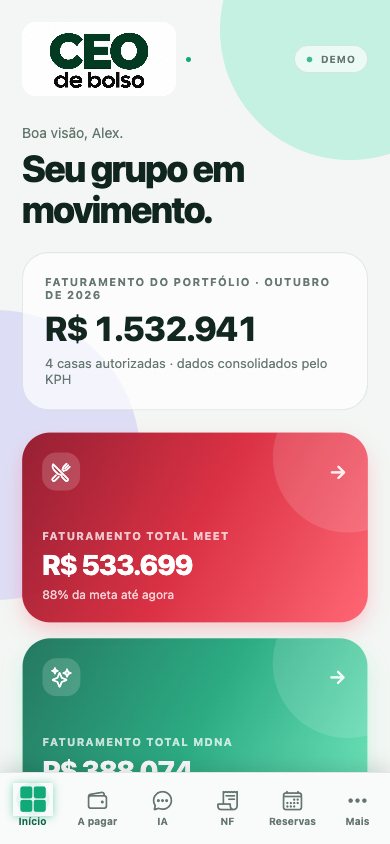
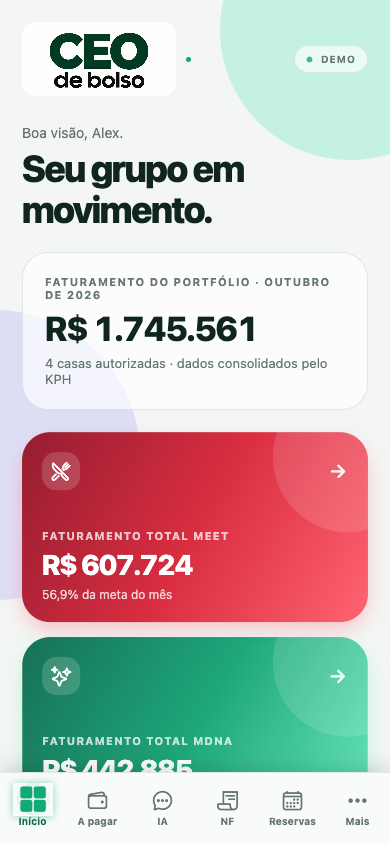
fix: show monthly target attainment on house dashboards

diff --git a/src/features/dashboard-experience.tsx b/src/features/dashboard-experience.tsx
@@ -218,7 +218,7 @@ function PortfolioCard({ unit, data, onPress, delay }: { unit: Unit; data?: Dash
             </Text>
             <AnimatedAmount value={data?.revenue ?? null} color="#FFFFFF" size={28} />
             <Text style={{ color: "rgba(255,255,255,0.78)", fontSize: 12 }}>
-              {data?.goalProgress == null ? "Meta indisponível" : `${Math.round(data.goalProgress * 100)}% da meta até agora`}
+              {data?.monthGoalProgress == null ? "Meta mensal indisponível" : `${percentage.format(data.monthGoalProgress)} da meta do mês`}
             </Text>
           </View>
         </LinearGradient>
@@ -254,7 +254,7 @@ function PortfolioSnapshotCard({ unit, data, onPress, delay }: { unit: Unit; dat
           <View style={{ flexDirection: "row", alignItems: "center", justifyContent: "space-between", marginBottom: 14 }}>
             <View>
               <Text style={{ color: "#FFFFFF", fontSize: 17, fontWeight: "900", letterSpacing: -0.5 }}>{brand.label}</Text>
-              <Text style={{ color: "rgba(255,255,255,0.68)", fontSize: 9, fontWeight: "700", letterSpacing: 1.1, marginTop: 2 }}>POSIÇÃO DO MÊS</Text>
+              <Text style={{ color: "rgba(255,255,255,0.68)", fontSize: 9, fontWeight: "700", letterSpacing: 1.1, marginTop: 2 }}>{`POSIÇÃO ATÉ ${asOf}`}</Text>
             </View>
             <View style={{ width: 34, height: 34, borderRadius: 12, backgroundColor: "rgba(255,255,255,0.16)", alignItems: "center", justifyContent: "center" }}>
               <Ionicons name={brand.icon} size={17} color="#FFFFFF" />
@@ -266,7 +266,7 @@ function PortfolioSnapshotCard({ unit, data, onPress, delay }: { unit: Unit; dat
             <View style={{ height: 1, backgroundColor: "rgba(255,255,255,0.17)", marginVertical: 1 }} />
             <SnapshotLine label="Faturamento acumulado" value={value(snapshot?.accumulatedRevenue)} strong />
             <SnapshotLine label="Diferença acumulada" value={value(snapshot?.difference)} valueColor={snapshot?.difference == null ? undefined : accent} />
-            <SnapshotLine label="Desvio da meta" value={snapshot?.deviation == null ? "—" : percentage.format(snapshot.deviation)} valueColor={snapshot?.deviation == null ? undefined : accent} />
+            <SnapshotLine label={`Desvio até ${asOf}`} value={snapshot?.deviation == null ? "—" : percentage.format(snapshot.deviation)} valueColor={snapshot?.deviation == null ? undefined : accent} />
           </View>
         </LinearGradient>
       </Pressable>
@@ -498,7 +498,7 @@ function UnitDetail({ unit, dashboard, month, onMonth, onBack, onPick }: { unit:
   const { colors } = useTheme();
   const brand = brandStyle(unit);
   const showDetails = unit.capabilities.includes("dashboard.details");
-  const goalProgress = dashboard.goalProgress ?? 0;
+  const monthGoalProgress = dashboard.monthGoalProgress;
   const bestDay = dashboard.series.reduce<DashboardPoint | null>((best, point) => !best || (point.revenue ?? 0) > (best.revenue ?? 0) ? point : best, null);
   return (
     <>
@@ -514,7 +514,7 @@ function UnitDetail({ unit, dashboard, month, onMonth, onBack, onPick }: { unit:
           <View style={{ position: "absolute", width: 230, height: 230, borderRadius: 115, right: -65, top: -100, backgroundColor: "rgba(255,255,255,0.14)" }} />
           <View style={{ flexDirection: "row", justifyContent: "space-between" }}><View><Text style={{ color: "rgba(255,255,255,0.72)", fontSize: 11, fontWeight: "700", letterSpacing: 1.3, textTransform: "uppercase" }}>FATURAMENTO · {monthLabel(month, true)}</Text><Text style={{ color: "rgba(255,255,255,0.72)", marginTop: 5, fontSize: 13 }}>{unit.name}</Text></View><View style={{ width: 43, height: 43, borderRadius: 15, backgroundColor: "rgba(255,255,255,0.17)", alignItems: "center", justifyContent: "center" }}><Ionicons name={brand.icon} color="#fff" size={22} /></View></View>
           <AnimatedAmount value={dashboard.revenue} color="#FFFFFF" size={42} />
-          <View style={{ gap: 10 }}><View style={{ flexDirection: "row", justifyContent: "space-between" }}><Text style={{ color: "rgba(255,255,255,0.75)", fontSize: 12 }}>Meta acumulada</Text><Text style={{ color: "#FFFFFF", fontSize: 12, fontWeight: "700" }}>{Math.round(goalProgress * 100)}%</Text></View><AnimatedProgress value={goalProgress} color="#FFFFFF" /></View>
+          <View style={{ gap: 10 }}><View style={{ flexDirection: "row", justifyContent: "space-between" }}><Text style={{ color: "rgba(255,255,255,0.75)", fontSize: 12 }}>Meta do mês</Text><Text style={{ color: "#FFFFFF", fontSize: 12, fontWeight: "700" }}>{monthGoalProgress == null ? "—" : percentage.format(monthGoalProgress)}</Text></View><AnimatedProgress value={monthGoalProgress ?? 0} color="#FFFFFF" /></View>
           {dashboard.provisional && <View style={{ flexDirection: "row", alignItems: "center", gap: 7 }}><Ionicons name="time-outline" color="rgba(255,255,255,0.82)" size={15} /><Text style={{ color: "rgba(255,255,255,0.82)", fontSize: 11 }}>Há conciliações de pagamento em processamento</Text></View>}
         </LinearGradient>
       </Reveal>
@@ -524,7 +524,7 @@ function UnitDetail({ unit, dashboard, month, onMonth, onBack, onPick }: { unit:
         </View>
       </Reveal>
       <View style={{ flexDirection: "row", gap: 12 }}>
-        <View style={{ flex: 1 }}><Reveal delay={240}><Metric icon="flag-outline" label="Meta acumulada" value={dashboard.goal == null ? "—" : compactCurrency.format(dashboard.goal)} color={brand.glow} /></Reveal></View>
+        <View style={{ flex: 1 }}><Reveal delay={240}><Metric icon="flag-outline" label="Meta do mês" value={dashboard.portfolioSnapshot?.monthGoal == null ? "—" : compactCurrency.format(dashboard.portfolioSnapshot.monthGoal)} color={brand.glow} /></Reveal></View>
         <View style={{ flex: 1 }}><Reveal delay={310}><Metric icon="trophy-outline" label="Melhor dia" value={bestDay?.revenue == null ? "—" : compactCurrency.format(bestDay.revenue)} color={brand.glow} /></Reveal></View>
       </View>
       <RevenueOverview dashboard={dashboard} color={brand.glow} showDetails={showDetails} />

diff --git a/tests/e2e/journeys.spec.ts b/tests/e2e/journeys.spec.ts
@@ -284,3 +284,16 @@ test("partner deep link falls back to home without payables access", async ({ pa
   await expect(page.getByText("Contas a pagar", { exact: true })).toHaveCount(0);
   await expect(page.getByText("Energia Centro")).toHaveCount(0);
 });
+
+
+test("house progress uses the full monthly target and keeps the dated position separate", async ({ page }) => {
+  await login(page);
+  const meet=page.getByRole("button", { name: "Abrir dashboard Meet", exact: true });
+  await expect(meet.getByText("56,9% da meta do mês", { exact: true })).toBeVisible();
+  await expect(page.getByText(/^META ATÉ 20\/10$/i).first()).toBeVisible();
+  await meet.click();
+  await expect(page.getByText("56,9%", { exact: true })).toBeVisible();
+  await expect(page.getByText("Meta do mês", { exact: true }).first()).toBeVisible();
+  await expect(page.getByText("R$ 1,5 mi", { exact: true })).toBeVisible();
+  await expect(page.getByText("Meta acumulada", { exact: true })).toHaveCount(0);
+});

diff --git a/src/data/mock-gateways.ts b/src/data/mock-gateways.ts
@@ -118,6 +118,7 @@ export function createMockGateways(now = Date.now, delay = 240): Gateways {
               revenue: null,
               goal: null,
               goalProgress: null,
+              monthGoalProgress: null,
               hasData: false,
               provisional: false,
               eventsRevenue: 0,
@@ -135,6 +136,7 @@ export function createMockGateways(now = Date.now, delay = 240): Gateways {
             }
           : {
               ...base,
+              monthGoalProgress: Math.round(base.revenue * scale) / Math.round((base.goal / 20) * 31 * scale),
               periodStart: `${requested}-01`,
               periodEnd: moveDate(base.periodEnd),
               revenue:

diff --git a/src/data/remote-gateways.ts b/src/data/remote-gateways.ts
@@ -159,6 +159,7 @@ const dashboardSchema = z.object({
   revenue: z.number().nullable(),
   goal: z.number().nullable(),
   goalProgress: z.number().nullable(),
+  monthGoalProgress: z.number().nullable(),
   hasData: z.boolean(),
   provisional: z.boolean(),
   eventsRevenue: z.number().nonnegative(),
@@ -624,7 +625,7 @@ export function createRemoteGateways(): Gateways {
       async get(scope, month) {
         const data = dashboardSchema.parse(
           await rpc(
-            "ghost_dashboard_v4",
+            "ghost_dashboard_v5",
             {
               p_unit_id: scope.unitId,
               p_month: month ?? new Date().toISOString().slice(0, 10),

diff --git a/src/contracts/gateways.ts b/src/contracts/gateways.ts
@@ -37,6 +37,7 @@ export type Dashboard = {
   revenue: number | null;
   goal: number | null;
   goalProgress: number | null;
+  monthGoalProgress: number | null;
   hasData: boolean;
   provisional: boolean;
   eventsRevenue: number;

diff --git a/docs/dashboard-goals.md b/docs/dashboard-goals.md
@@ -47,3 +47,30 @@ A versão 9 já instalada recebe a correção pela API, sem novo binário/TestFl
 - Security Advisor antes/depois sem alterações; passivo anterior preservado.
 - Exportações mock web e remota Android/iOS/web. Não houve alteração de módulos
   nativos, instalação ou jornada em aparelho físico nesta correção.
+
+## Percentual mensal e posição até uma data — 04/11/2026
+
+O card principal usava `goalProgress`, um indicador do período decorrido, como se
+fosse o avanço da meta mensal. No Frêneze, o payload tinha receita `30.488,45`,
+meta até 04/11 `38.000` e progresso `80,23%`, mas meta mensal `524.000`. A posição
+até 03/11, separadamente, tinha meta `25.000` e receita `30.488,45`.
+
+A API aditiva `ghost_dashboard_v5` calcula `monthGoalProgress` no servidor usando
+a mesma receita exibida no card dividida pela meta do mês inteiro. O caso real
+retorna `5,818406...%` (5,82% com duas casas). `goalProgress` e todas as versões
+anteriores mantêm seu significado; a posição acumulada continua com sua data.
+A nova UI usa somente o percentual mensal no card principal, mostra “Meta do mês”
+no detalhe e identifica os cartões de posição como “até DD/MM”. Essa apresentação
+exige a nova versão do app, ao contrário da correção anterior de herança de metas.
+
+O cálculo recebe a resposta já autorizada e minimizada da v4; não expõe nenhum
+campo adicional do restaurante aos sócios. Zero, ausência de dados, meta zero e
+atingimento acima de 100% são tratados explicitamente. O teste SQL reproduz o
+exemplo real sem gravar dados de negócio. Auth/RPC real validou as quatro casas
+nas versões v3/v4/v5 e manteve a negação de unidade fora do vínculo.
+
+Validação da distinção mensal: 221 testes unitários, 11 jornadas E2E (incluindo
+regressão específica do denominador mensal), lint, TypeScript, boundaries e gate
+de release. Teste negativo ampliado para 36 RPCs, incluindo v5. Security Advisor
+mantém as mesmas categorias e passivo; a contagem de funções autenticadas cresce
+em uma pela nova v5, com autorização explícita e execução anônima revogada.
